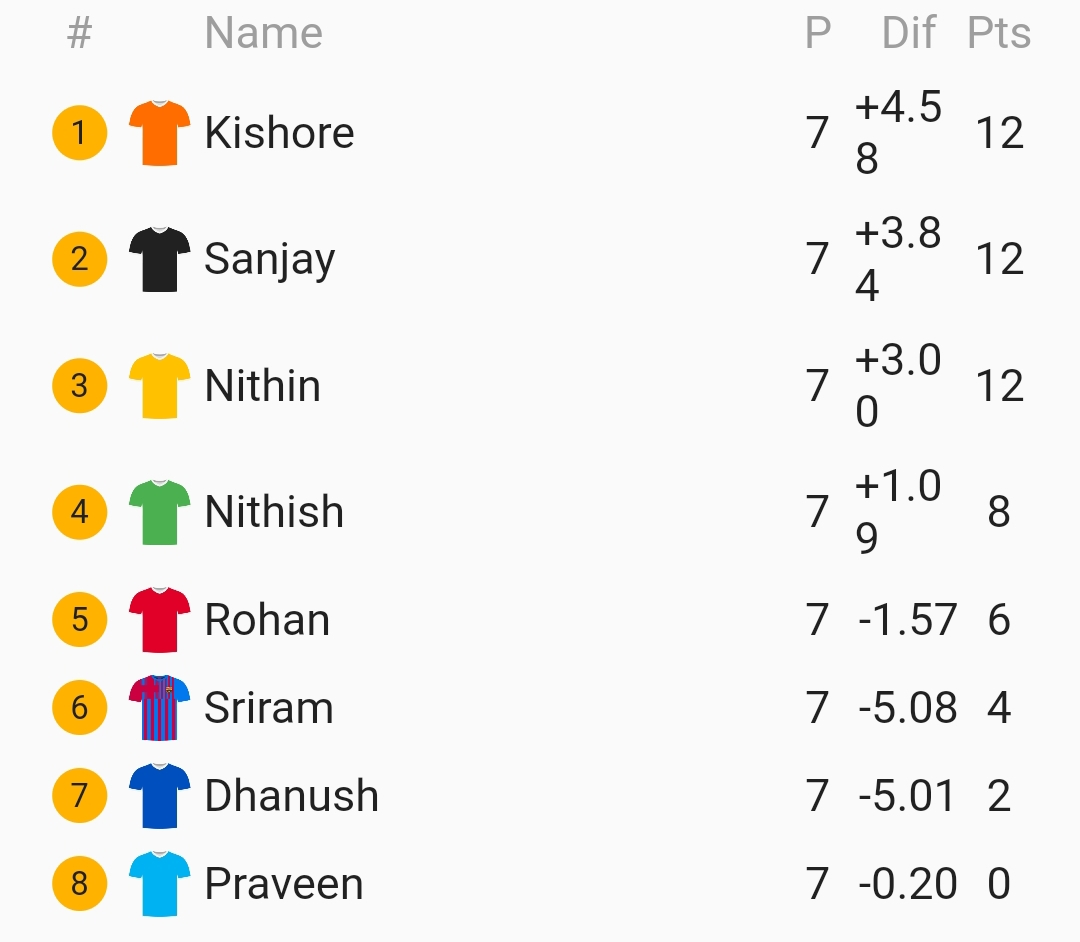
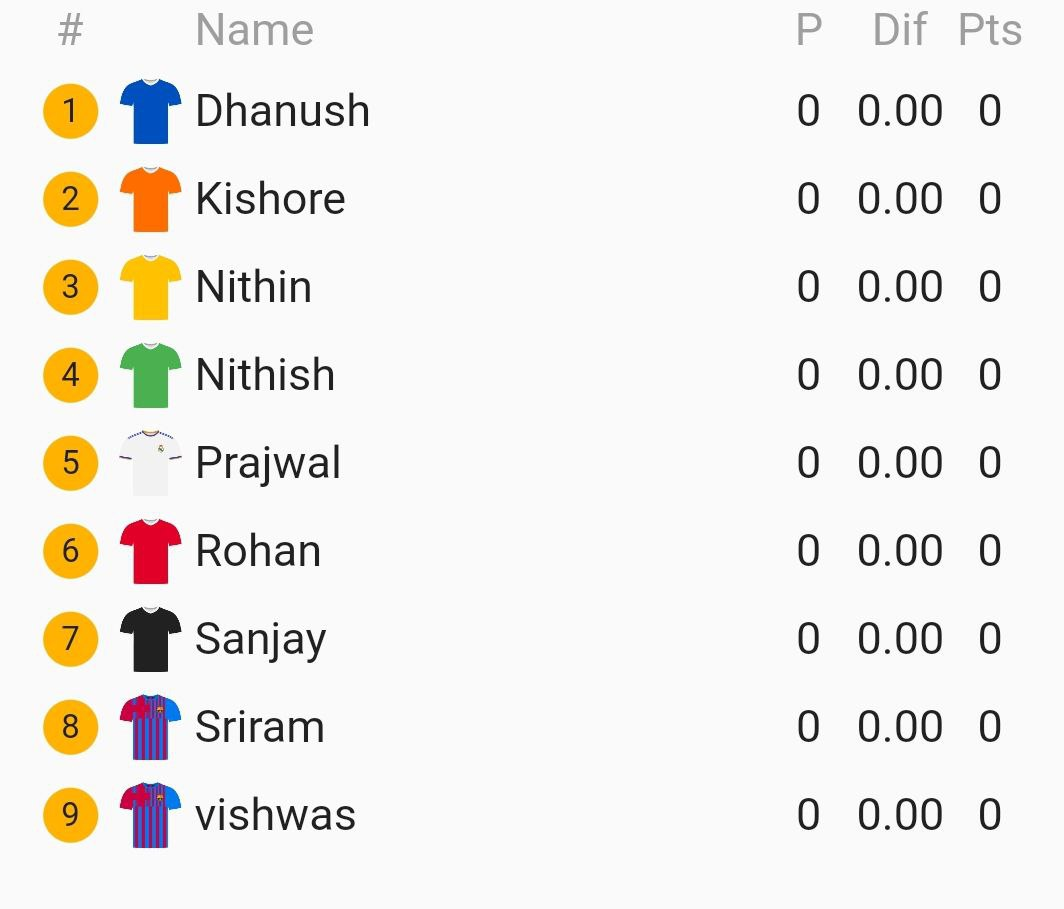
Add files via upload

diff --git a/FIX.HTML b/FIX.HTML
@@ -66,21 +66,21 @@
         <tr>
             <td>Fixture 1</td>
             <td class="team1">DHANUSH</td>
-            <td class="team2">SANJAY</td>
+            <td class="team2">KISHORE</td>
         </tr>
         <tr>
             <td>Fixture 2</td>
-            <td class="team1">Praveen</td>
-            <td class="team2">Rohan</td>
+            <td class="team1">VISHWAS</td>
+            <td class="team2">NITHISH</td>
         </tr>
         <tr>
             <td>Fixture 3</td>
-            <td class="team1">KISHORE</td>
-            <td class="team2">Nithish</td>
+            <td class="team1">PRAJWAL</td>
+            <td class="team2">NiTHIN</td>
         </tr>
         <tr>
             <td>Fixture 4</td>
-            <td class="team1">Nithin</td>
+            <td class="team1">ROHAN</td>
             <td class="team2">SRIRAM</td>
         </tr>
     </table>
@@ -94,7 +94,7 @@
         </tr>
         <tr>
             <td>Fixture 1</td>
-            <td class="team1">Praveen</td>
+            <td class="team1">SANJAY</td>
             <td class="team2">NITISH</td>
         </tr>
         <tr>
@@ -104,13 +104,13 @@
         </tr>
         <tr>
             <td>Fixture 3</td>
-            <td class="team1">Sanjay</td>
+            <td class="team1">PRAJWAL</td>
             <td class="team2">Rohan</td>
         </tr>
         <tr>
             <td>Fixture 4</td>
             <td class="team1">SRIRAM</td>
-            <td class="team2">KISHORE</td>
+            <td class="team2">VISHWAS</td>
         </tr>
     </table>
 
@@ -124,22 +124,22 @@
         <tr>
             <td>Fixture 1</td>
             <td class="team1">SRIRAM</td>
-            <td class="team2">Praveen</td>
+            <td class="team2">SANJAY</td>
         </tr>
         <tr>
             <td>Fixture 2</td>
-            <td class="team1">Sanjay</td>
+            <td class="team1">KISHORE</td>
             <td class="team2">Nithin</td>
         </tr>
         <tr>
             <td>Fixture 3</td>
-            <td class="team1">Nithish</td>
+            <td class="team1">DHANUSH</td>
             <td class="team2">Rohan</td>
         </tr>
         <tr>
             <td>Fixture 4</td>
-            <td class="team1">DHANUSH</td>
-            <td class="team2">KISHORE</td>
+            <td class="team1">PRAJWAL</td>
+            <td class="team2">VISHWAS</td>
         </tr>
     </table>
 
@@ -152,18 +152,18 @@
         </tr>
         <tr>
             <td>Fixture 1</td>
-            <td class="team1">Kishore</td>
+            <td class="team1">PRAJWAL</td>
             <td class="team2">Sanjay</td>
         </tr>
         <tr>
             <td>Fixture 2</td>
             <td class="team1">DHANUSH</td>
-            <td class="team2">Praveen</td>
+            <td class="team2">VISHWAS</td>
         </tr>
         <tr>
             <td>Fixture 3</td>
             <td class="team1">Rohan</td>
-            <td class="team2">Nithin</td>
+            <td class="team2">KISHORE</td>
         </tr>
         <tr>
             <td>Fixture 4</td>
@@ -181,23 +181,23 @@
         </tr>
         <tr>
             <td>Fixture 1</td>
-            <td class="team1">Kishore</td>
+            <td class="team1">ROHAN</td>
             <td class="team2">Nithin</td>
         </tr>
         <tr>
             <td>Fixture 2</td>
             <td class="team1">Nithish</td>
-            <td class="team2">DHANUSH</td>
+            <td class="team2">PRAJWAL</td>
         </tr>
         <tr>
             <td>Fixture 3</td>
-            <td class="team1">SRIRAM</td>
-            <td class="team2">Rohan</td>
+            <td class="team1">VISHWAS</td>
+            <td class="team2">KISHORE</td>
         </tr>
         <tr>
             <td>Fixture 4</td>
             <td class="team1">Sanjay</td>
-            <td class="team2">PRAVEEN</td>
+            <td class="team2">DHANUSH</td>
         </tr>
     </table>
 
@@ -211,25 +211,24 @@
         <tr>
             <td>Fixture 1</td>
             <td class="team1">Kishore</td>
-            <td class="team2">Rohan</td>
+            <td class="team2">SANJAY</td>
         </tr>
         <tr>
             <td>Fixture 2</td>
-            <td class="team1">Praveen</td>
+            <td class="team1">VISHWAS</td>
             <td class="team2">Nithin</td>
         </tr>
         <tr>
             <td>Fixture 3</td>
             <td class="team1">SRIRAM</td>
-            <td class="team2">DHANUSH</td>
+            <td class="team2">PRAJWAL</td>
         </tr>
         <tr>
             <td>Fixture 4</td>
-            <td class="team1">Sanjay</td>
+            <td class="team1">DANUSH</td>
             <td class="team2">NithISH</td>
         </tr>
     </table>
-
     <h2>Round 7</h2>
     <table>
         <tr>
@@ -239,25 +238,84 @@
         </tr>
         <tr>
             <td>Fixture 1</td>
-            <td class="team1">SRIRAM</td>
-            <td class="team2">SANJAY</td>
-        </tr>
-        <tr>
-            <td>Fixture 2</td>
-            <td class="team1">Praveen</td>
-            <td class="team2">KISHORE</td>
-        </tr>
-        <tr>
-            <td>Fixture 3</td>
-            <td class="team1">DHANUSH</td>
+            <td class="team1">VISHWAS</td>
             <td class="team2">Rohan</td>
         </tr>
         <tr>
+            <td>Fixture 2</td>
+            <td class="team1">SANJAY</td>
+            <td class="team2">Nithin</td>
+        </tr>
+        <tr>
+            <td>Fixture 3</td>
+            <td class="team1">SRIRAM</td>
+            <td class="team2">DHANUSH</td>
+        </tr>
+        <tr>
             <td>Fixture 4</td>
-            <td class="team1">Nithin</td>
-            <td class="team2">NITHISH</td>
+            <td class="team1">KISHORE</td>
+            <td class="team2">NithISH</td>
         </tr>
     </table>
+    <h2>Round 8</h2>
+    <table>
+        <tr>
+            <th>Fixture</th>
+            <th>Team 1</th>
+            <th>Team 2</th>
+        </tr>
+        <tr>
+            <td>Fixture 1</td>
+            <td class="team1">Kishore</td>
+            <td class="team2">SRIRAM</td>
+        </tr>
+        <tr>
+            <td>Fixture 2</td>
+            <td class="team1">NIHISH</td>
+            <td class="team2">Nithin</td>
+        </tr>
+        <tr>
+            <td>Fixture 3</td>
+            <td class="team1">PRAJWAL</td>
+            <td class="team2">DHANUSH</td>
+        </tr>
+        <tr>
+            <td>Fixture 4</td>
+            <td class="team1">Sanjay</td>
+            <td class="team2">ROHAN</td>
+        </tr>
+    </table>
+    <h2>Round 9</h2>
+    <table>
+        <tr>
+            <th>Fixture</th>
+            <th>Team 1</th>
+            <th>Team 2</th>
+        </tr>
+        <tr>
+            <td>Fixture 1</td>
+            <td class="team1">NITHISH</td>
+            <td class="team2">Rohan</td>
+        </tr>
+        <tr>
+            <td>Fixture 2</td>
+            <td class="team1">SRIRAM</td>
+            <td class="team2">Nithin</td>
+        </tr>
+        <tr>
+            <td>Fixture 3</td>
+            <td class="team1">PRAJWAL</td>
+            <td class="team2">KISHORE</td>
+        </tr>
+        <tr>
+            <td>Fixture 4</td>
+            <td class="team1">Sanjay</td>
+            <td class="team2">VISHWAS</td>
+        </tr>
+    </table>
+  
+
+    
 </body>
 
 </html>

diff --git a/POINTS.HTML b/POINTS.HTML
@@ -1,15 +1,6 @@
 <html>
     <title>POINTS TABLE</title>
-    <style>
-          h1 {
-    text-align: center;
-    font-size: 32px;
-    margin-bottom: 300px;
-    background-image: linear-gradient(to right, #ee0404, #4d4c51, #FFD700);
-    -webkit-background-clip: text;
-    -webkit-text-fill-color: transparent;
-    animation: glowing 2s ease-in-out infinite alternate;
-    }
+   
     </style>
     <head>
         <meta charset="utf-8">
@@ -17,13 +8,6 @@
         <!--this code comes from: httsp://myprograming.com/ -->
         <link rel="stylesheet" type="text/css" href="style.css">
     </head>
-    
-    <body>
-        <canvas id="canvas">RC22 S5 CHAMPION!!</canvas>
-        <h1 id="message">WINNER KISHORE</h1>
-        <script src="demo.js"></script>
-    </body>
-  
     <h1>POINTS TABLE:</h1>
     <h2>LEAGUE STAGE:</h2>
     <img  width="500px" src="points.jpg"/>
@@ -31,9 +15,6 @@
     <h3>DRAW:1PTS</h3>
     <h3>LOSS:0PTS</h3>
     <h2><font color="maroon">THE TOP FOUR TEAMS WILL RACE TO PLAYOFFS:</font></h2>
-    <h1>PLAYOFFS</h1>
-
-    <align='center' ><img width="1000px" src="sale.png" /></align>
-
+   
 
 </html>

diff --git a/index.html b/index.html
@@ -4,7 +4,7 @@
 
 <head>
     
-    <title>RC22 Championship Season 5</title>
+    <title>RC22 Championship Season 6</title>
     <title>Image Slider</title>
     <style>
         .slider-container {
@@ -218,12 +218,13 @@
 <p>RC22 championship is an unofficial fun tournament played among a small circle of friends to see who is he best among all.There were past 4 seasons played in this edition.</p>
 
 <body>
-    <h1>RC22 Championship Season 5</h1>
+    <h1>RC22 Championship Season 6</h1>
 
     <div class="section bg-primary">
         <h2 class="section-title text-primary">Players Participating:</h2>
         <ul class="team-list">
-            <li>PRAVEEN</li>
+            <li>PRAJWAL</li>
+            <li>VISHWAS</li>
             <li>ROHAN</li>
             <li>NITHISH</li>
             <li>KISHORE</li>
